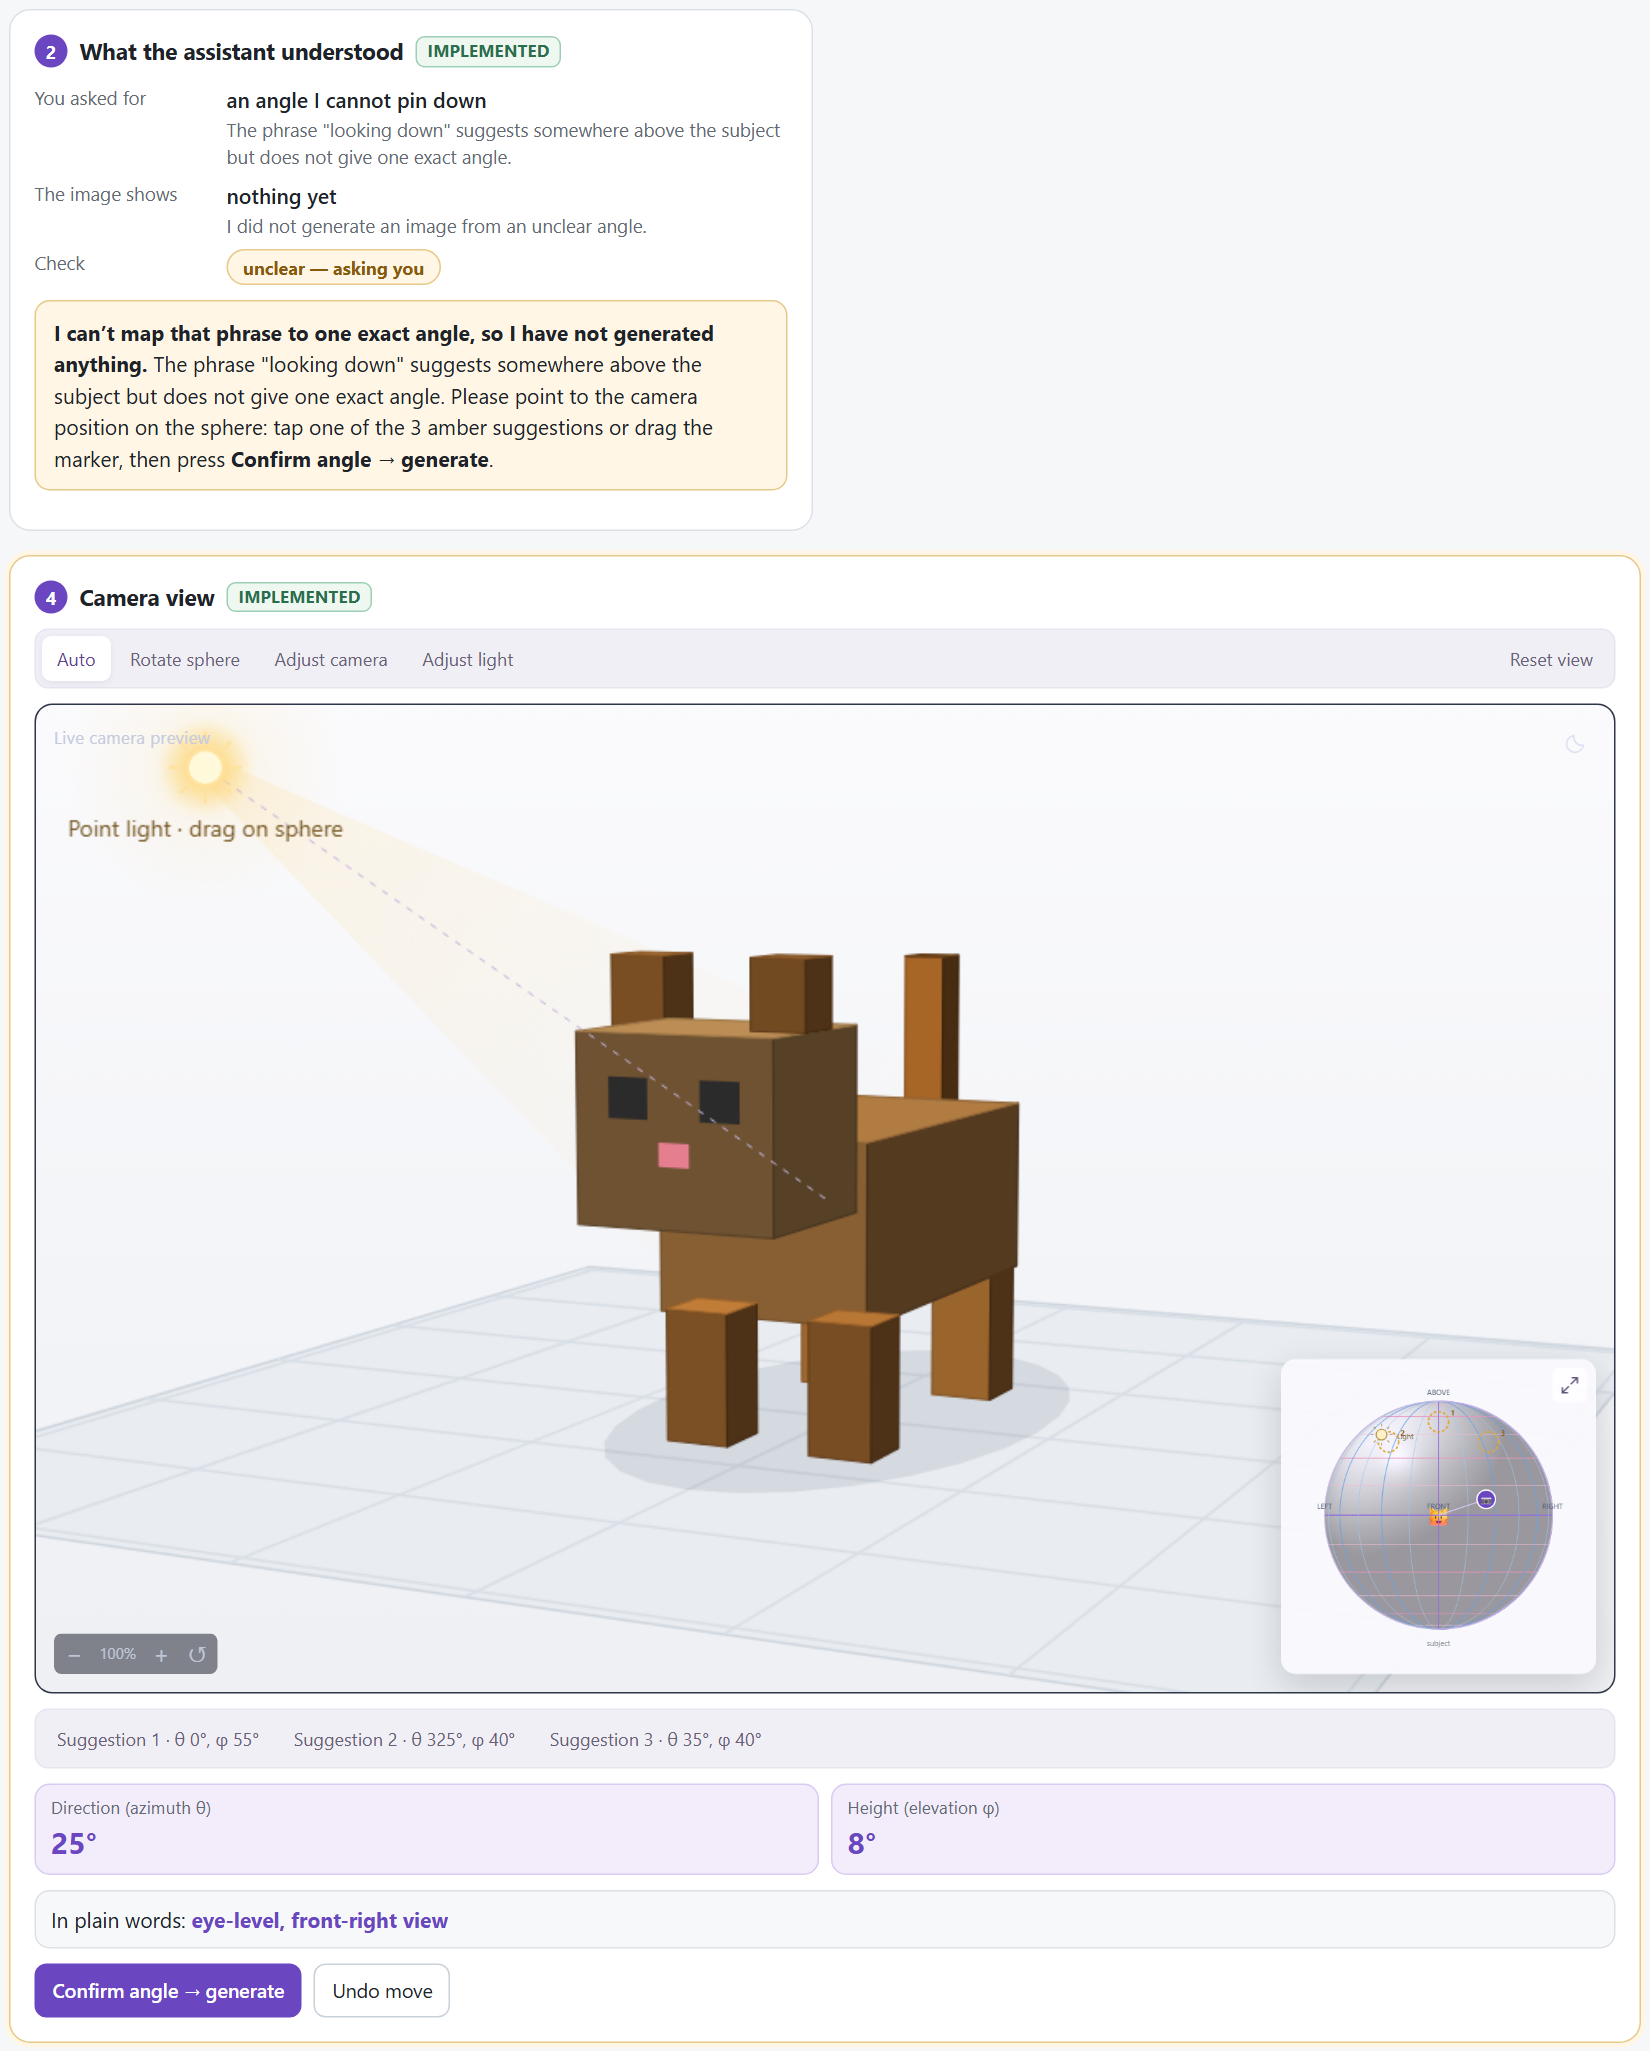
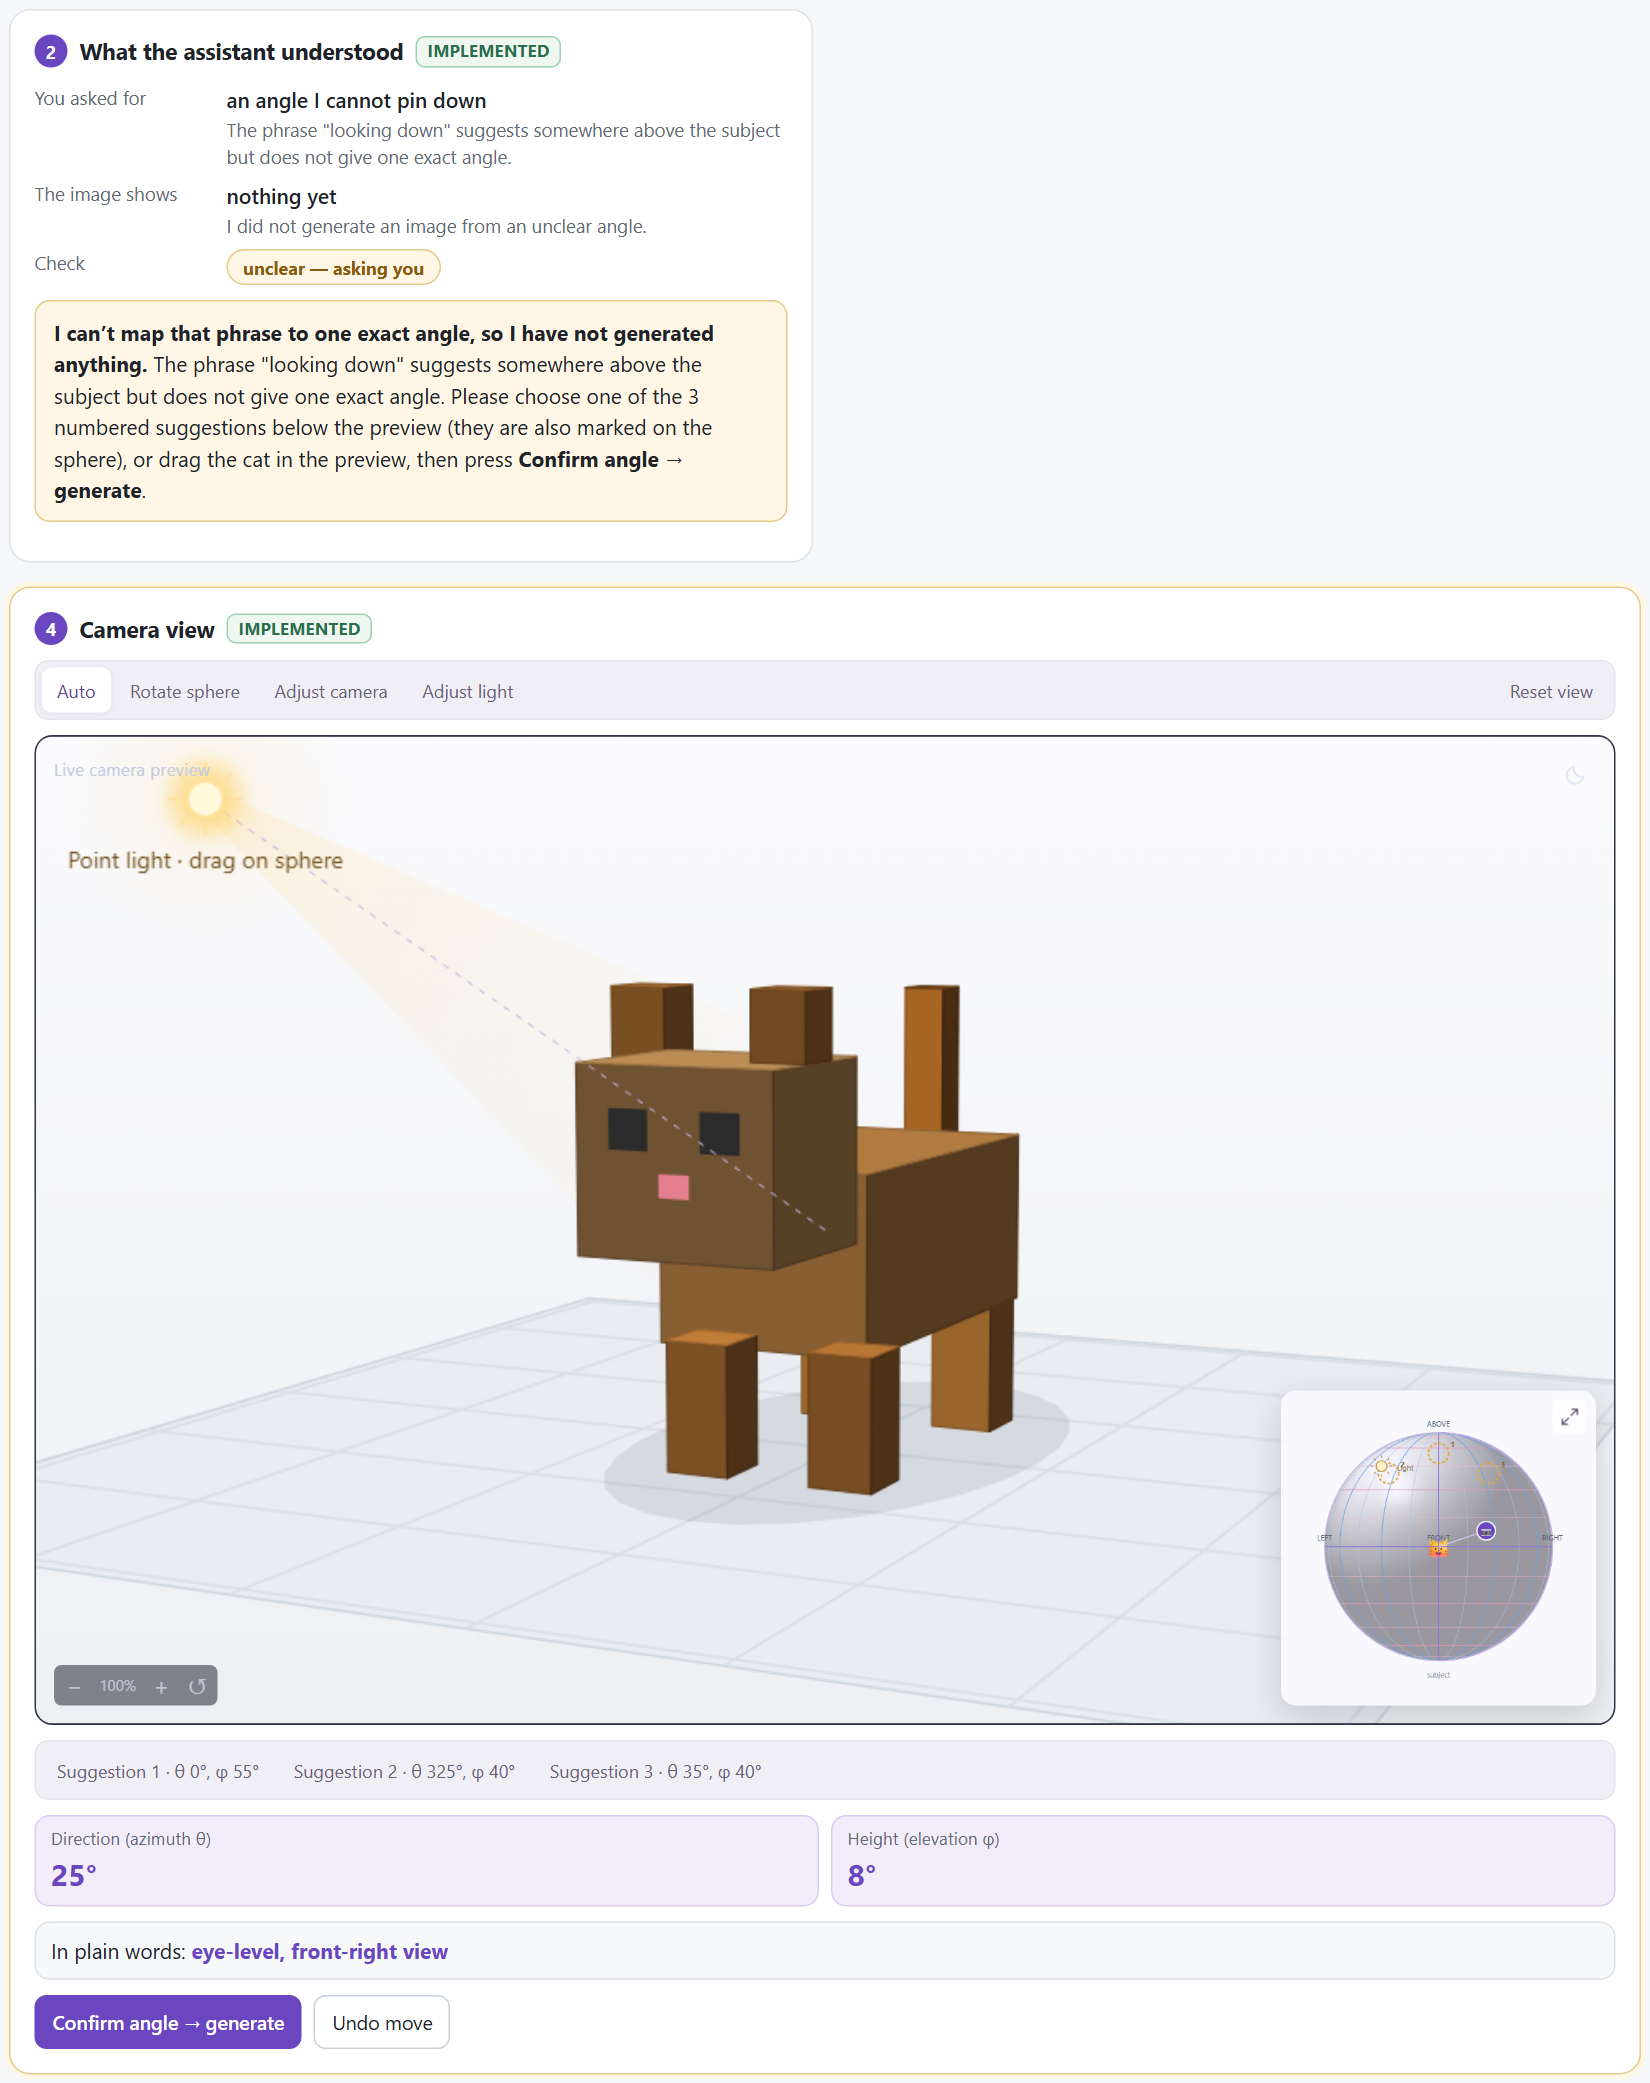
Unclear-request message: point to the numbered suggestions, not the rings
Suggestions are chosen with the numbered buttons below the preview; the
rings on the inset sphere are markers only (taps there were removed on
purpose because they were ambiguous). The message and hint still told
people to tap an amber ring or drag the marker, so they now say to pick a
numbered suggestion or drag the cat in the preview. Chinese strings
updated; storyboard B frame 2 re-shot and frame 3 wording corrected.
Previous versions kept locally in old/.

diff --git a/docs/a2/storyboard_B_asked.html b/docs/a2/storyboard_B_asked.html
@@ -14,4 +14,4 @@ h1{font-size:24px} .sub{color:#646a73;font-size:14px;margin:6px 0 10px}
 .shot{display:flex;align-items:flex-start}
 .shot img{width:100%;border:1px solid #dde1e6;border-radius:10px;background:#f6f7f9}
 .foot{font-size:12px;color:#646a73;margin-top:4px}
-</style></head><body><h1>Storyboard B — a metaphor: ask instead of guessing</h1><p class="sub">Person describes the angle as a scene (“looking down from the stage”). The assistant does not turn it into a literal angle.</p><p class="legend">Frames are screenshots of <code>prototype/index.html</code> (day mode). <span class="tag impl">implemented</span> runs in the prototype · <span class="tag sim">simulated</span> stand-in for the image model and the viewpoint detector (placeholder 3D render).</p><div class="frame"><div class="txt"><div class="n"><i>1</i>Write the prompt</div><div class="row"><b>Person does</b>Types “Make it look like you’re looking down at the cat from the stage”.</div><div class="row"><b>System does</b>Looks for viewpoint words <span class="tag impl">implemented</span>.</div><div class="row"><b>Person sees</b>The prompt; nothing generated yet.</div></div><div class="shot"><img src="screens/B1_prompt.png" alt="Write the prompt"></div></div><div class="frame"><div class="txt"><div class="n"><i>2</i>The assistant asks</div><div class="row"><b>Person does</b>Reads the message.</div><div class="row"><b>System does</b>Finds “looking down” but no exact angle: unclear <span class="tag impl">implemented</span>. Generates nothing. Offers three numbered suggested positions, also marked on the sphere.</div><div class="row"><b>Person sees</b>“I have not generated anything”, “nothing yet”, and Suggestions 1–3.</div></div><div class="shot"><img src="screens/B2_ambiguous.png" alt="The assistant asks"></div></div><div class="frame"><div class="txt"><div class="n"><i>3</i>Point at the angle</div><div class="row"><b>Person does</b>Picks Suggestion 1 (or drags on the sphere).</div><div class="row"><b>System does</b>Moves the camera there; the preview, the inset and the plain-language readout follow <span class="tag impl">implemented</span>.</div><div class="row"><b>Person sees</b>θ 0°, φ 55°, “high angle, front view”, a preview from above, and Confirm.</div></div><div class="shot"><img src="screens/B3_picked.png" alt="Point at the angle"></div></div><div class="frame"><div class="txt"><div class="n"><i>4</i>Confirm, image generated</div><div class="row"><b>Person does</b>Presses “Confirm angle → generate”.</div><div class="row"><b>System does</b>Sends the confirmed angle to the model <span class="tag sim">simulated</span>; keeps the version <span class="tag impl">implemented</span>.</div><div class="row"><b>Person sees</b>An image at that angle, “matches request”, listed as version 1.</div></div><div class="shot"><img src="screens/B4_generated.png" alt="Confirm, image generated"></div></div><p class="foot">Viewpoint Assistant · Assignment 2 · every image in the frames is a simulated placeholder, not a generated image.</p></body></html>
+</style></head><body><h1>Storyboard B — a metaphor: ask instead of guessing</h1><p class="sub">Person describes the angle as a scene (“looking down from the stage”). The assistant does not turn it into a literal angle.</p><p class="legend">Frames are screenshots of <code>prototype/index.html</code> (day mode). <span class="tag impl">implemented</span> runs in the prototype · <span class="tag sim">simulated</span> stand-in for the image model and the viewpoint detector (placeholder 3D render).</p><div class="frame"><div class="txt"><div class="n"><i>1</i>Write the prompt</div><div class="row"><b>Person does</b>Types “Make it look like you’re looking down at the cat from the stage”.</div><div class="row"><b>System does</b>Looks for viewpoint words <span class="tag impl">implemented</span>.</div><div class="row"><b>Person sees</b>The prompt; nothing generated yet.</div></div><div class="shot"><img src="screens/B1_prompt.png" alt="Write the prompt"></div></div><div class="frame"><div class="txt"><div class="n"><i>2</i>The assistant asks</div><div class="row"><b>Person does</b>Reads the message.</div><div class="row"><b>System does</b>Finds “looking down” but no exact angle: unclear <span class="tag impl">implemented</span>. Generates nothing. Offers three numbered suggested positions, also marked on the sphere.</div><div class="row"><b>Person sees</b>“I have not generated anything”, “nothing yet”, and Suggestions 1–3.</div></div><div class="shot"><img src="screens/B2_ambiguous.png" alt="The assistant asks"></div></div><div class="frame"><div class="txt"><div class="n"><i>3</i>Point at the angle</div><div class="row"><b>Person does</b>Picks Suggestion 1 with its numbered button below the preview.</div><div class="row"><b>System does</b>Moves the camera there; the preview, the inset and the plain-language readout follow <span class="tag impl">implemented</span>.</div><div class="row"><b>Person sees</b>θ 0°, φ 55°, “high angle, front view”, a preview from above, and Confirm.</div></div><div class="shot"><img src="screens/B3_picked.png" alt="Point at the angle"></div></div><div class="frame"><div class="txt"><div class="n"><i>4</i>Confirm, image generated</div><div class="row"><b>Person does</b>Presses “Confirm angle → generate”.</div><div class="row"><b>System does</b>Sends the confirmed angle to the model <span class="tag sim">simulated</span>; keeps the version <span class="tag impl">implemented</span>.</div><div class="row"><b>Person sees</b>An image at that angle, “matches request”, listed as version 1.</div></div><div class="shot"><img src="screens/B4_generated.png" alt="Confirm, image generated"></div></div><p class="foot">Viewpoint Assistant · Assignment 2 · every image in the frames is a simulated placeholder, not a generated image.</p></body></html>

diff --git a/prototype/language.js b/prototype/language.js
@@ -7,7 +7,7 @@
     ['Reset view','重置视图'],['Camera view reset. Light position is unchanged.','相机取景已重置，光源位置保持不变。'],['Sphere view reset. Camera and light positions are unchanged.','球体视图已重置，相机与光源位置保持不变。'],
     ['Expand inset view','放大此视图'],['Secondary view','辅助视图'],['Camera sphere · drag or select a point','相机球体 · 拖动或选择位置'],
     ['Suggested positions: use the numbered buttons','建议位置：点击编号按钮选择'],['Choose a suggested camera position','选择建议相机位置'],['Suggestion ','建议 '],
-    ['Choose Suggestion 1, 2 or 3 below the preview, or tap an amber ring in the inset. Then confirm the angle.','点击预览下方的建议 1、2、3，或点击小图中的橙色圆环，然后确认角度。'],
+    ['Choose Suggestion 1, 2 or 3 below the preview, or drag the cat in the preview. Then confirm the angle.','点击预览下方的建议 1、2、3，或在预览中拖动小猫，然后确认角度。'],
     ['Preview zoom','预览缩放'],['Zoom out','缩小'],['Zoom in','放大'],['Reset zoom','重置缩放'],
     ['Switch to night mode','切换夜间模式'],['Switch to day mode','切换日间模式'],['Day / night','日间／夜间'],
     ['Auto: drag the cat to orbit the camera, or drag the light to change illumination. The inset stays in sync. Use the mode buttons to lock an operation.','自动模式：拖猫调整相机，拖光源调整照明，小图同步更新。也可用模式按钮固定操作。'],
@@ -51,7 +51,7 @@
     ['Amber rings are suggestions near the likely angle. Tap one, or drag the marker anywhere.','橙色圆环是建议位置。点击选择，或拖动相机标记调整。'],
     ['no camera angle','未指定相机角度'],['I found no viewpoint word in the prompt.','提示词中没有找到视角词。'],['an angle I cannot pin down','无法确定的角度'],['nothing yet','尚未生成'],['I did not generate an image from an unclear angle.','角度不明确，因此尚未生成图像。'],['I did not pick an angle for you.','尚未替你选择角度。'],
     ['Which camera angle do you want?','你希望使用哪个相机角度？'],['Your prompt has no viewpoint word, and I won’t guess one. Set the angle on the sphere (or add a word such as “top-down” or “side view” to the prompt), then press','提示词中没有视角词。请在球体上选择角度，或在英文提示词中加入“top-down”“side view”等描述，然后点击'],
-    ['I can’t map that phrase to one exact angle, so I have not generated anything.','这句话无法对应唯一角度，因此尚未生成图像。'],['Please point to the camera position on the sphere: tap one of the','请在球体上选择相机位置：点击'],['amber suggestions or drag the marker, then press','个橙色建议位置之一，或拖动标记，然后点击'],
+    ['I can’t map that phrase to one exact angle, so I have not generated anything.','这句话无法对应唯一角度，因此尚未生成图像。'],['Please choose one of the','请从预览下方的'],['numbered suggestions below the preview (they are also marked on the sphere), or drag the cat in the preview, then press','个编号建议中选择一个（它们也标在球体上），或在预览中拖动小猫，然后点击'],
     ['The image matches the angle you asked for.','图像符合你要求的角度。'],['You can still fine-tune on the sphere and confirm to make another version.','仍可在球体上微调，确认后生成新版本。'],['The image is not at the angle you asked for.','图像不符合你要求的角度。'],['It shows','图像显示'],['you asked for','你要求的是'],['I moved the camera marker to','已将相机标记移至'],['on the sphere. Check it, adjust if you like, then confirm. Nothing is regenerated until you do.','。请检查、调整并确认，再重新生成。'],
     ['Detected:','检测结果：'],['earlier image · nothing new generated yet','上一张图像 · 尚未生成新图像'],['✓ matches request','✓ 符合要求'],['✕ not the angle asked for','✕ 角度不符'],['✓ match','✓ 一致'],['✕ mismatch','✕ 不一致'],['waiting','等待'],['mismatch','不一致'],['match','一致'],['ambiguous','角度不明确'],['no viewpoint','未指定视角'],
     ['Still showing the earlier image.','仍显示上一张图像。'],['generated from','生成依据：'],['the text prompt only','仅文字提示词'],['the angle confirmed on the sphere','球体上确认的角度'],['Version','版本'],['from text','来自文字'],['from sphere','来自球体'],['Show version','显示版本'],['Showing','正在显示'],['version','版本'],

diff --git a/prototype/app.js b/prototype/app.js
@@ -387,9 +387,9 @@
       setUnderstood({
         kind: 'ambiguous', asked: asked, shows: 'nothing yet <span class="why">I did not generate an image from an unclear angle.</span>', needsSphere: true,
         msg: '<b>I can’t map that phrase to one exact angle, so I have not generated anything.</b> ' + esc(p.reason) +
-          ' Please point to the camera position on the sphere: tap one of the ' + p.candidates.length + ' amber suggestions or drag the marker, then press <b>Confirm angle → generate</b>.'
+          ' Please choose one of the ' + p.candidates.length + ' numbered suggestions below the preview (they are also marked on the sphere), or drag the cat in the preview, then press <b>Confirm angle → generate</b>.'
       });
-      $('sphereHint').textContent = 'Choose Suggestion 1, 2 or 3 below the preview, or tap an amber ring in the inset. Then confirm the angle.';
+      $('sphereHint').textContent = 'Choose Suggestion 1, 2 or 3 below the preview, or drag the cat in the preview. Then confirm the angle.';
       return;
     }
     if (p.kind === 'none') {
